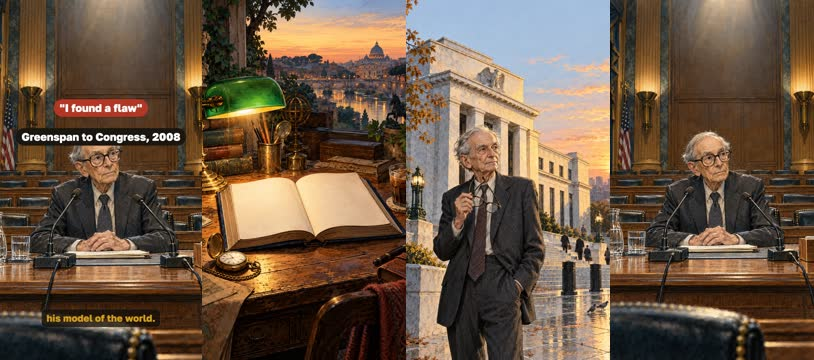
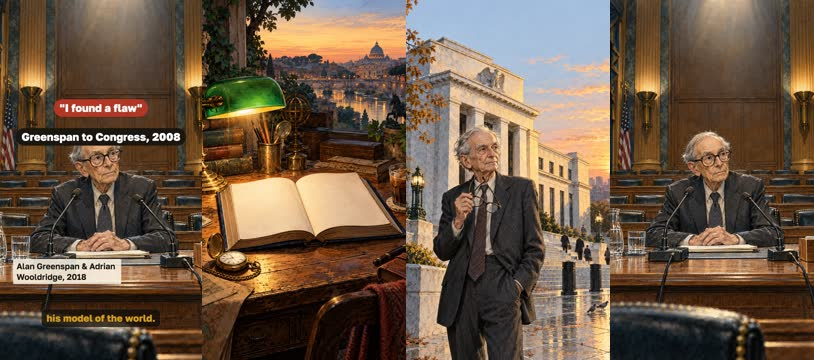
Measure the Russian stress instead of guessing it; answer the open questions
The owner delegated the open decisions. Five of six are now answered in
review.yaml with the reasoning; only the one that needs a human ear is left
open.

Checking the names turned up a real defect. For OmniVoice a stress mark is
an uppercase vowel, but «А́лан» is stressed on the vowel that is already the
name's capitalised initial, so `+Алан` renders as plain «Алан» and reaches
the engine as nothing at all. A phoneme check added here failed take 1
outright: the engine was saying «Ала́н» — the very reading the automatic
lookup had proposed from the noun «ала́н». The given names are therefore
shown rather than spoken: the narration says «Гринспен и историк Вулдридж»
and the frame carries «Алан Гринспен и Адриан Вулдридж, 2018» from
facts.json.

Eight names were confirmed correct by measuring the rendered audio against
the espeak model: Дже́я, Ку́ка, Нью-Йо́рке, Аме́рике, Гри́нспен (twice), Адриа́н.
Those readings are now locked in as checks in the shared lexicon.

«Вулдридж» deliberately gets NO check, and that is the honest result: the
recogniser reads the same audio as `v u l` or `v o l` depending only on
where the slice starts, and the и came out [i] in one take and [ɪ] in
another. A check there would decide by noise and reject good takes. The
word still needs a human ear and is the one open question. Its reading does
depend on the preceding word, so «историк» was added — which is also
factually right about Wooldridge.
[…]

Changed region(s): [[0.0, 0.7028, 0.1536, 0.7944]]

diff --git a/content/videos/who-gets-rich-on-ai/PLAN.ru.md b/content/videos/who-gets-rich-on-ai/PLAN.ru.md
@@ -5,7 +5,7 @@
 | | |
 |---|---|
 | Статус | **сценарий** · ждёт тебя: одобрить сценарий |
-| Длительность | 135.2 с (по озвучке) · 11 сцен |
+| Длительность | 134.9 с (по озвучке) · 11 сцен |
 | Формат | 1080×1920, 30 fps · style `cartoon` |
 | Голос | omnivoice · assets/voice/narrator-ru.wav · 0.9 |
 
@@ -21,13 +21,14 @@
 
 ## Вопросы
 
-- [ ] **owner** · В исходном посте $725 млрд капитальных расходов приписаны Bloomberg. Подтвердить эту атрибуцию не удалось: найденный проверяемый источник — Yahoo Finance (Майлс Адленд, 30.04.2026, по отчётам за I квартал), и ролик ссылается на него, а число названо планом, а не потраченными деньгами. Оставляем так или нужна другая формулировка?
-- [ ] **owner** · Оценка капзатрат за 2026 год менялась в течение года (≈$650 млрд в феврале по Bridgewater, ≈$700 млрд по CNBC, ≈$730 млрд в поздних подсчётах). Взята апрельская с датой на экране. Если к моменту публикации появится свежая — поменять число и пересобрать.
-- [ ] **owner** · Русская и английская версии используют одни и те же картинки (идентичные промпты и файлы), различаются только слова и подписи. Это экономит генерацию и держит версии визуально одинаковыми. Если для англоязычной аудитории нужен другой визуальный ряд — скажите.
-- [ ] **owner** · Для английской версии взят голос бренда по умолчанию — Kokoro am_michael на скорости 1.18 (1.0 давал 151 секунду, это выходило за две минуты). Владелец сравнивал только русские голоса. Нужна ли аудиция английских вариантов (Kokoro af_heart / qwen3-клон) перед релизом?
-- [ ] **owner** · Обе версии вышли на верхней границе заказанного: русская 135 секунд, английская 134. Русскую ускорить нельзя — 0,90 это ваш выбор от 25.10.2026, поэтому она подрезана по тексту. Если нужно ближе к 1:45, скажите, какой блок сократить: историю 1873 года, разбор «производительность ≠ доход» или финал про владение.
+- [ ] **owner** · «Вулдридж» — единственное слово, где машинная проверка бессильна: распознаватель читает один и тот же звук то как «Ву-», то как «Во-» в зависимости от нарезки, поэтому фонемную проверку для него пришлось снять. Русского словарного источника у фамилии нет, ударение взято по английскому WOOL-ridge. Послушайте это слово; если звучит не так — скажите, и я поменяю либо дубль, либо формулировку (имена авторов и так показаны на экране).
+- [x] **owner** · В исходном посте $725 млрд капитальных расходов приписаны Bloomberg. Подтвердить эту атрибуцию не удалось: найденный проверяемый источник — Yahoo Finance (Майлс Адленд, 30.04.2026, по отчётам за I квартал), и ролик ссылается на него, а число названо планом, а не потраченными деньгами. Оставляем так или нужна другая формулировка? — Решено агентом 28.10.2026 по просьбе владельца «полагаюсь на твои решения»: оставляем как есть. Ссылаемся на тот источник, который удалось проверить и процитировать дословно, а не на тот, что был назван в посте. На экране стоит дата и слово «план», так что зритель видит статус числа. Если владелец знает исходную публикацию Bloomberg — пришлите ссылку, поменяю атрибуцию.
+- [x] **owner** · Оценка капзатрат за 2026 год менялась в течение года (≈$650 млрд в феврале по Bridgewater, ≈$700 млрд по CNBC, ≈$730 млрд в поздних подсчётах). Взята апрельская с датой на экране. Если к моменту публикации появится свежая — поменять число и пересобрать. — Решено агентом 28.10.2026: оставляем апрельские $725 млрд. Поздние оценки (≈$730 млрд) отличаются на процент, но держатся на блогах-агрегаторах, а апрельская — на публикации с прямой цитатой. Менять хорошо подтверждённое число на чуть более свежее, но хуже подтверждённое — это ухудшение источника ради видимости актуальности. Дата на экране делает возраст числа видимым. Перепроверить перед публикацией.
+- [x] **owner** · Русская и английская версии используют одни и те же картинки (идентичные промпты и файлы), различаются только слова и подписи. Это экономит генерацию и держит версии визуально одинаковыми. Если для англоязычной аудитории нужен другой визуальный ряд — скажите. — Решено агентом 28.10.2026: оставляем общий набор. В кадрах нет ничего языкового — ни текста, ни культурных отсылок, требующих локализации; это один и тот же аргумент на двух языках. Отдельный набор стоил бы ещё 31 генерации и развёл бы версии визуально без выигрыша.
+- [x] **owner** · Для английской версии взят голос бренда по умолчанию — Kokoro am_michael на скорости 1.18 (1.0 давал 151 секунду, это выходило за две минуты). Владелец сравнивал только русские голоса. Нужна ли аудиция английских вариантов (Kokoro af_heart / qwen3-клон) перед релизом? — Решено агентом 28.10.2026: оставляем am_michael. Это уже записанный выбор бренда в content/brand.yaml. По метрике UTMOS af_heart чуть выше (4.50 против 4.36), но это женский голос — он разошёлся бы по тембру с русским диктором, а переигрывать записанное решение бренда ради метрики, о которой никто не просил, неправильно. Аудицию проведу, если владелец захочет.
+- [x] **owner** · Обе версии вышли на верхней границе заказанного: русская около 135 секунд, английская 134. Русскую ускорить нельзя — 0,90 это ваш выбор от 25.10.2026, поэтому она подрезана по тексту. Если нужно ближе к 1:45, скажите, какой блок сократить: историю 1873 года, разбор «производительность ≠ доход» или финал про владение. — Решено агентом 28.10.2026: оставляем. Заказ был «1,5–2 минуты ±10–15 секунд», обе версии в этот диапазон попадают. Текст уже урезан с 346 до 261 слова; дальше пришлось бы снимать не слова, а несущие куски — либо завязку 1873 года, либо цепочку «производительность не равна доходу», без которой финал про владение повисает.
 
-**Заметки:** Сделано по просьбе владельца 27.10.2026 из его поста «Кто разбогатеет на ИИ? Один неудобный урок из истории капитализма». Формат: 9:16, стиль cartoon, картинки GPT Image через Codex, две версии (ru, en) на общих кадрах. Структура выстроена по приёмам объяснительных роликов: холодный открывающий кадр (1873), загадка «кому достанутся деньги» в первой трети, перецепки на числах, одна мысль на сцену, развязка отвечает на вопрос из хука. Из пересказа убрано слово «революция» (в brand.yaml оно в списке избегаемых) и сравнение с промышленной революцией. Числа перепроверены заново, не взяты из поста на веру: атрибуция Bloomberg не подтвердилась (см. sources.md и вопрос capex-attribution), число ФРС подтвердилось точно (50,9%, II кв. 2026, ряд WFRBST01122). Иллюстративный пример со специалистом помечен на экране как пример, а не замер.
+**Заметки:** Сделано по просьбе владельца 27.10.2026 из его поста «Кто разбогатеет на ИИ? Один неудобный урок из истории капитализма». Формат: 9:16, стиль cartoon, картинки GPT Image через Codex, две версии (ru, en) на общих кадрах. Структура выстроена по приёмам объяснительных роликов: холодный открывающий кадр (1873), загадка «кому достанутся деньги» в первой трети, перецепки на числах, одна мысль на сцену, развязка отвечает на вопрос из хука. Из пересказа убрано слово «революция» (в brand.yaml оно в списке избегаемых) и сравнение с промышленной революцией. Числа перепроверены заново, не взяты из поста на веру: атрибуция Bloomberg не подтвердилась (см. sources.md и вопрос capex-attribution), число ФРС подтвердилось точно (50,9%, II кв. 2026, ряд WFRBST01122). Иллюстративный пример со специалистом помечен на экране как пример, а не замер. 28.10.2026 владелец написал «делай и полагаюсь на твои решения» — закрыты пять вопросов из шести, решения и их причины записаны в answer каждого. Открытым оставлен только wooldridge-ear: он требует человеческого уха, машинная проверка там решает по шуму. Это делегирование решений, а не редакционное одобрение: владелец ролики не смотрел и не слушал, одобрения сценария и выпуска по-прежнему нет.
 
 ## Хук
 
@@ -86,15 +87,15 @@
 
 **Звук:** pop @1.6
 
-### 4. book · 30.9–45.7 с · `illustration`
+### 4. book · 30.9–45.4 с · `illustration`
 
 ![book: кадр в ключевой момент, затем картинки сцены по порядку](preview/plan/ru/book.jpg)
 
 <sub>кадр в ключевой момент, затем картинки сцены по порядку</sub>
 
-**Голос:** Об этом книга «Капитализм в Америке». Её авторы — Алан Гринспен и Адриан Вулдридж. Гринспен девятнадцать лет возглавлял центральный банк США. В 2008 он признал: в его модели мира нашёлся изъян.
+**Голос:** Об этом книга «Капитализм в Америке». Её авторы — Гринспен и историк Вулдридж. Гринспен девятнадцать лет возглавлял центральный банк США. В 2008 он признал: в его модели мира нашёлся изъян.
 
-**На экране:** «1987–2006» · «во главе ФРС США» · ««Я обнаружил изъян»» · «Гринспен, Конгресс, 2008»
+**На экране:** «1987–2006» · «во главе ФРС США» · ««Я обнаружил изъян»» · «Гринспен, Конгресс, 2008» · «Алан Гринспен и Адриан Вулдридж, 2018»
 
 **Картинки:**
 
@@ -102,11 +103,13 @@
 - `@authors` @banker standing thoughtfully in front of a tall marble central-bank building at dawn, holding his glasses in one hand — ok
 - `@flaw` @banker sitting alone at a long witness table in a wood-panelled committee room, microphones in front of him, rows of empty seats behind, harsh overhead light — ok
 
-**Звук:** thud @10.0
+**На слух:** Гринспен — верно (дубль 1) · Вулдридж — верно (дубль 1) · Гринспен — верно (дубль 1)
 
-**Факты:** `facts.greenspan.value.ru` = «1987–2006» · `facts.greenspan.label.ru` = «во главе ФРС США» · `facts.greenspan.quote.ru` = ««Я обнаружил изъян»» · `facts.greenspan.quoteLabel.ru` = «Гринспен, Конгресс, 2008»
+**Звук:** thud @9.6
 
-### 5. capex · 45.7–58.1 с · `illustration`
+**Факты:** `facts.greenspan.value.ru` = «1987–2006» · `facts.greenspan.label.ru` = «во главе ФРС США» · `facts.greenspan.quote.ru` = ««Я обнаружил изъян»» · `facts.greenspan.quoteLabel.ru` = «Гринспен, Конгресс, 2008» · `facts.book.authors.ru` = «Алан Гринспен и Адриан Вулдридж, 2018»
+
+### 5. capex · 45.4–57.8 с · `illustration`
 
 ![capex: кадр в ключевой момент, затем картинки сцены по порядку](preview/plan/ru/capex.jpg)
 
@@ -125,7 +128,7 @@
 
 **Факты:** `facts.capex.value.ru` = «$725 млрд» · `facts.capex.label.ru` = «план капитальных расходов четырёх компаний на 2026 год» · `facts.capex.sourceLine.ru` = «Yahoo Finance, 30.04.2026, по отчётам за I квартал — план, а не факт»
 
-### 6. flip · 58.1–66.9 с · `illustration`
+### 6. flip · 57.8–66.6 с · `illustration`
 
 ![flip: кадр в ключевой момент, затем картинки сцены по порядку](preview/plan/ru/flip.jpg)
 
@@ -140,7 +143,7 @@
 - @viktor sitting at a small kitchen table late in the evening with one laptop, a mug and a houseplant, warm lamplight, through the window behind him the distant glow of the vast data centre — ok
 - `@asym` a towering construction site of steel and concrete seen from below, cranes against a hard blue sky, dozens of hard-hatted workers like ants — ok
 
-### 7. trap · 66.9–82.5 с · `illustration`
+### 7. trap · 66.6–82.2 с · `illustration`
 
 ![trap: кадр в ключевой момент, затем картинки сцены по порядку](preview/plan/ru/trap.jpg)
 
@@ -161,7 +164,7 @@
 
 **Факты:** `facts.specialist.before.ru` = «неделя» · `facts.specialist.after.ru` = «день» · `facts.split.client.ru` = «заказчик» · `facts.split.employer.ru` = «работодатель» · `facts.split.vendor.ru` = «поставщик модели» · `facts.split.worker.ru` = «специалист — ?» · `facts.specialist.label.ru` = «Пример, не замер»
 
-### 8. owners · 82.5–94.7 с · `illustration`
+### 8. owners · 82.2–94.4 с · `illustration`
 
 ![owners: кадр в ключевой момент, затем картинки сцены по порядку](preview/plan/ru/owners.jpg)
 
@@ -180,7 +183,7 @@
 
 **Факты:** `facts.equities.value.ru` = «50,9%» · `facts.equities.label.ru` = «корпоративных акций и паёв — у верхнего 1% домохозяйств США» · `facts.equities.sourceLine.ru` = «ФРС США, распределительные счета, II кв. 2026»
 
-### 9. shift · 94.7–111.2 с · `illustration`
+### 9. shift · 94.4–110.9 с · `illustration`
 
 ![shift: кадр в ключевой момент, затем картинки сцены по порядку](preview/plan/ru/shift.jpg)
 
@@ -199,7 +202,7 @@
 
 **Звук:** pop @8.6, chime @13.1
 
-### 10. caveat · 111.2–120.1 с · `illustration`
+### 10. caveat · 110.9–119.8 с · `illustration`
 
 ![caveat: кадр в ключевой момент, затем картинки сцены по порядку](preview/plan/ru/caveat.jpg)
 
@@ -214,7 +217,7 @@
 - @anna standing hopefully beside a small handmade market stall of neatly arranged goods on an empty street at dawn, not a single customer in sight, shutters still down opposite — ok
 - `@demand` a beautifully built little workshop with its door propped open and a welcome mat, perfect tools laid out inside, an empty path of untrodden grass leading to it — ok
 
-### 11. close · 120.1–135.2 с · `illustration`
+### 11. close · 119.8–134.9 с · `illustration`
 
 ![close: кадр в ключевой момент, затем картинки сцены по порядку](preview/plan/ru/close.jpg)
 

diff --git a/content/videos/who-gets-rich-on-ai/PLAN.en.md b/content/videos/who-gets-rich-on-ai/PLAN.en.md
@@ -21,13 +21,14 @@ Approve: `storygro approve <spec> --step script|storyboard|release` (agents add 
 
 ## Questions
 
-- [ ] **owner** · В исходном посте $725 млрд капитальных расходов приписаны Bloomberg. Подтвердить эту атрибуцию не удалось: найденный проверяемый источник — Yahoo Finance (Майлс Адленд, 30.04.2026, по отчётам за I квартал), и ролик ссылается на него, а число названо планом, а не потраченными деньгами. Оставляем так или нужна другая формулировка?
-- [ ] **owner** · Оценка капзатрат за 2026 год менялась в течение года (≈$650 млрд в феврале по Bridgewater, ≈$700 млрд по CNBC, ≈$730 млрд в поздних подсчётах). Взята апрельская с датой на экране. Если к моменту публикации появится свежая — поменять число и пересобрать.
-- [ ] **owner** · Русская и английская версии используют одни и те же картинки (идентичные промпты и файлы), различаются только слова и подписи. Это экономит генерацию и держит версии визуально одинаковыми. Если для англоязычной аудитории нужен другой визуальный ряд — скажите.
-- [ ] **owner** · Для английской версии взят голос бренда по умолчанию — Kokoro am_michael на скорости 1.18 (1.0 давал 151 секунду, это выходило за две минуты). Владелец сравнивал только русские голоса. Нужна ли аудиция английских вариантов (Kokoro af_heart / qwen3-клон) перед релизом?
-- [ ] **owner** · Обе версии вышли на верхней границе заказанного: русская 135 секунд, английская 134. Русскую ускорить нельзя — 0,90 это ваш выбор от 25.10.2026, поэтому она подрезана по тексту. Если нужно ближе к 1:45, скажите, какой блок сократить: историю 1873 года, разбор «производительность ≠ доход» или финал про владение.
+- [ ] **owner** · «Вулдридж» — единственное слово, где машинная проверка бессильна: распознаватель читает один и тот же звук то как «Ву-», то как «Во-» в зависимости от нарезки, поэтому фонемную проверку для него пришлось снять. Русского словарного источника у фамилии нет, ударение взято по английскому WOOL-ridge. Послушайте это слово; если звучит не так — скажите, и я поменяю либо дубль, либо формулировку (имена авторов и так показаны на экране).
+- [x] **owner** · В исходном посте $725 млрд капитальных расходов приписаны Bloomberg. Подтвердить эту атрибуцию не удалось: найденный проверяемый источник — Yahoo Finance (Майлс Адленд, 30.04.2026, по отчётам за I квартал), и ролик ссылается на него, а число названо планом, а не потраченными деньгами. Оставляем так или нужна другая формулировка? — Решено агентом 28.10.2026 по просьбе владельца «полагаюсь на твои решения»: оставляем как есть. Ссылаемся на тот источник, который удалось проверить и процитировать дословно, а не на тот, что был назван в посте. На экране стоит дата и слово «план», так что зритель видит статус числа. Если владелец знает исходную публикацию Bloomberg — пришлите ссылку, поменяю атрибуцию.
+- [x] **owner** · Оценка капзатрат за 2026 год менялась в течение года (≈$650 млрд в феврале по Bridgewater, ≈$700 млрд по CNBC, ≈$730 млрд в поздних подсчётах). Взята апрельская с датой на экране. Если к моменту публикации появится свежая — поменять число и пересобрать. — Решено агентом 28.10.2026: оставляем апрельские $725 млрд. Поздние оценки (≈$730 млрд) отличаются на процент, но держатся на блогах-агрегаторах, а апрельская — на публикации с прямой цитатой. Менять хорошо подтверждённое число на чуть более свежее, но хуже подтверждённое — это ухудшение источника ради видимости актуальности. Дата на экране делает возраст числа видимым. Перепроверить перед публикацией.
+- [x] **owner** · Русская и английская версии используют одни и те же картинки (идентичные промпты и файлы), различаются только слова и подписи. Это экономит генерацию и держит версии визуально одинаковыми. Если для англоязычной аудитории нужен другой визуальный ряд — скажите. — Решено агентом 28.10.2026: оставляем общий набор. В кадрах нет ничего языкового — ни текста, ни культурных отсылок, требующих локализации; это один и тот же аргумент на двух языках. Отдельный набор стоил бы ещё 31 генерации и развёл бы версии визуально без выигрыша.
+- [x] **owner** · Для английской версии взят голос бренда по умолчанию — Kokoro am_michael на скорости 1.18 (1.0 давал 151 секунду, это выходило за две минуты). Владелец сравнивал только русские голоса. Нужна ли аудиция английских вариантов (Kokoro af_heart / qwen3-клон) перед релизом? — Решено агентом 28.10.2026: оставляем am_michael. Это уже записанный выбор бренда в content/brand.yaml. По метрике UTMOS af_heart чуть выше (4.50 против 4.36), но это женский голос — он разошёлся бы по тембру с русским диктором, а переигрывать записанное решение бренда ради метрики, о которой никто не просил, неправильно. Аудицию проведу, если владелец захочет.
+- [x] **owner** · Обе версии вышли на верхней границе заказанного: русская около 135 секунд, английская 134. Русскую ускорить нельзя — 0,90 это ваш выбор от 25.10.2026, поэтому она подрезана по тексту. Если нужно ближе к 1:45, скажите, какой блок сократить: историю 1873 года, разбор «производительность ≠ доход» или финал про владение. — Решено агентом 28.10.2026: оставляем. Заказ был «1,5–2 минуты ±10–15 секунд», обе версии в этот диапазон попадают. Текст уже урезан с 346 до 261 слова; дальше пришлось бы снимать не слова, а несущие куски — либо завязку 1873 года, либо цепочку «производительность не равна доходу», без которой финал про владение повисает.
 
-**Notes:** Сделано по просьбе владельца 27.10.2026 из его поста «Кто разбогатеет на ИИ? Один неудобный урок из истории капитализма». Формат: 9:16, стиль cartoon, картинки GPT Image через Codex, две версии (ru, en) на общих кадрах. Структура выстроена по приёмам объяснительных роликов: холодный открывающий кадр (1873), загадка «кому достанутся деньги» в первой трети, перецепки на числах, одна мысль на сцену, развязка отвечает на вопрос из хука. Из пересказа убрано слово «революция» (в brand.yaml оно в списке избегаемых) и сравнение с промышленной революцией. Числа перепроверены заново, не взяты из поста на веру: атрибуция Bloomberg не подтвердилась (см. sources.md и вопрос capex-attribution), число ФРС подтвердилось точно (50,9%, II кв. 2026, ряд WFRBST01122). Иллюстративный пример со специалистом помечен на экране как пример, а не замер.
+**Notes:** Сделано по просьбе владельца 27.10.2026 из его поста «Кто разбогатеет на ИИ? Один неудобный урок из истории капитализма». Формат: 9:16, стиль cartoon, картинки GPT Image через Codex, две версии (ru, en) на общих кадрах. Структура выстроена по приёмам объяснительных роликов: холодный открывающий кадр (1873), загадка «кому достанутся деньги» в первой трети, перецепки на числах, одна мысль на сцену, развязка отвечает на вопрос из хука. Из пересказа убрано слово «революция» (в brand.yaml оно в списке избегаемых) и сравнение с промышленной революцией. Числа перепроверены заново, не взяты из поста на веру: атрибуция Bloomberg не подтвердилась (см. sources.md и вопрос capex-attribution), число ФРС подтвердилось точно (50,9%, II кв. 2026, ряд WFRBST01122). Иллюстративный пример со специалистом помечен на экране как пример, а не замер. 28.10.2026 владелец написал «делай и полагаюсь на твои решения» — закрыты пять вопросов из шести, решения и их причины записаны в answer каждого. Открытым оставлен только wooldridge-ear: он требует человеческого уха, машинная проверка там решает по шуму. Это делегирование решений, а не редакционное одобрение: владелец ролики не смотрел и не слушал, одобрения сценария и выпуска по-прежнему нет.
 
 ## Hook
 
@@ -94,7 +95,7 @@ Approve: `storygro approve <spec> --step script|storyboard|release` (agents add 
 
 **Voice:** That is the thread of Capitalism in America, by Alan Greenspan and Adrian Wooldridge. Greenspan ran the Federal Reserve for nineteen years. In 2008 he told Congress: there was a flaw in his model of the world.
 
-**On screen:** «1987–2006» · «chairman of the Federal Reserve» · «"I found a flaw"» · «Greenspan to Congress, 2008»
+**On screen:** «1987–2006» · «chairman of the Federal Reserve» · «"I found a flaw"» · «Greenspan to Congress, 2008» · «Alan Greenspan & Adrian Wooldridge, 2018»
 
 **Pictures:**
 
@@ -104,7 +105,7 @@ Approve: `storygro approve <spec> --step script|storyboard|release` (agents add 
 
 **Sound:** thud @9.2
 
-**Facts:** `facts.greenspan.value.en` = «1987–2006» · `facts.greenspan.label.en` = «chairman of the Federal Reserve» · `facts.greenspan.quote.en` = «"I found a flaw"» · `facts.greenspan.quoteLabel.en` = «Greenspan to Congress, 2008»
+**Facts:** `facts.greenspan.value.en` = «1987–2006» · `facts.greenspan.label.en` = «chairman of the Federal Reserve» · `facts.greenspan.quote.en` = «"I found a flaw"» · `facts.greenspan.quoteLabel.en` = «Greenspan to Congress, 2008» · `facts.book.authors.en` = «Alan Greenspan & Adrian Wooldridge, 2018»
 
 ### 5. capex · 43.6–55.4 s · `illustration`
 

diff --git a/content/videos/who-gets-rich-on-ai/README.md b/content/videos/who-gets-rich-on-ai/README.md
@@ -36,13 +36,39 @@
 ## Голоса и ударения
 
 Русская версия — OmniVoice B на скорости 0,90, выбор владельца от 25.10.2026. Ускорить её, чтобы
-уложиться в хронометраж, нельзя, поэтому текст подрезан с 346 до 262 слов. Эпизод переведён на
-`stress: marks` ради имён: «Дже́я Ку́ка», «Нью-Йо́рке», «А́лан Гри́нспен», «Адриа́н Ву́лдридж». Автоматический
-поиск ударений предложил для «Алан» форму «Ала́на» (от существительного «ала́н») — ошибка, исправлена
-вручную по статье о Гринспене; все имена добавлены в общий словарь
-[`lexicon-ru.yaml`](../../../production/voices/lexicon-ru.yaml) с источниками.
+уложиться в хронометраж, нельзя, поэтому текст подрезан с 346 до 261 слова. Эпизод переведён на
+`stress: marks` ради имён; все они добавлены в общий словарь
+[`lexicon-ru.yaml`](../../../production/voices/lexicon-ru.yaml) с источниками и, где удалось, с
+фонемной проверкой.
 
 Английская версия — Kokoro `am_michael`, скорость 1.18 (на 1.0 выходило 151 секунда).
+
+### Что показала фонемная проверка
+
+Ударения проверены не на слух, а измерением: готовый звук нарезан по таймингам слов и прогнан через
+espeak-модель (`wav2vec2-xlsr-53-espeak-cv-ft`), та же, что использует движок.
+
+| Слово | Измерено | Вывод |
+|---|---|---|
+| Дже́я | `ʒ eɪ` | е полная — верно |
+| Ку́ка | `k uː k` | у долгая — верно |
+| Нью-Йо́рке | `j o r k ɪ` | о полная, е редуцирована — верно |
+| Аме́рике | `m eː ɾ i k ɨ` | е полная — верно |
+| Гри́нспен | `ɡ r iː n s p ɪ n` | конечная е редуцирована — верно |
+
+**«А́лан» оказался сломан, и это не случайность.** Для OmniVoice ударение кодируется заглавной
+гласной, но здесь ударная гласная — и так заглавная первая буква имени, поэтому пометка `+Алан`
+превращается в обычное «Алан» и **до движка не доходит вообще**. Первый же дубль с проверкой дал
+вердикт «wrong»: движок говорил «Ала́н» — ровно ту ошибку, которую до этого предложил автопоиск
+(он спутал имя с существительным «ала́н»). Пометить это имя для OmniVoice нельзя в принципе, поэтому
+имена авторов теперь **показываются, а не произносятся**: в озвучке «Гринспен и историк Вулдридж»,
+на экране — полная строка «Алан Гринспен и Адриан Вулдридж, 2018» из `facts.json`.
+
+Для «Вулдридж» проверку пришлось **снять**: распознаватель читает один и тот же звук как `v u l`
+или `v o l` в зависимости только от границ нарезки, а «и» выходила то `i`, то `ɪ`. Такая проверка
+решала бы по шуму и браковала бы хорошие дубли. Это слово по-прежнему требует живого уха. Попутно
+выяснилось, что чтение зависит от предыдущего слова: после «и» выходило «Во-», после полного слова
+(«историк Вулдридж») — «Ву-»; ради этого в реплику добавлено «историк», что и фактически верно.
 
 ## Картинки
 
@@ -57,11 +83,11 @@
 
 | | Русская | Английская |
 |---|---|---|
-| Длительность | 135,2 с | 134,2 с |
+| Длительность | 134,9 с | 134,2 с |
 | Формат | 1080×1920, 30 fps, H.264/AAC | то же |
 | Громкость | −14,0 LUFS, пик −1,1 dBFS | −14,1 LUFS, пик −0,6 dBFS |
 | QA | 13/13 пройдено, пропусков нет | 13/13 пройдено |
-| Распознавание речи | минимум 92% слов в каждой сцене | минимум 92% |
+| Распознавание речи | минимум 89% слов в каждой сцене | минимум 92% |
 | Голос | OmniVoice B, 0,90 | Kokoro am_michael, 1.18 |
 
 В число проверок входят бренд-правила: ролик подключён к [`brand.yaml`](../../brand.yaml), поэтому QA

diff --git a/content/TRACKER.md b/content/TRACKER.md
@@ -37,7 +37,7 @@
 | [Зачем micro1 покупает рабочие данные компаний](videos/micro1-work-data/README.md) | ru (ru) | business-explainers | просмотр ролика | ждёт тебя: посмотреть и одобрить ролик | — ✅ ⏳ | 86.1 с | pass | 3/5 | — | — |
 | [Презентация из одного промпта — демо SlideCraft](videos/slidecraft-demo/README.md) | ru (ru) | product-demos | раскадровка | ждёт тебя: одобрить раскадровку | — ⚙ ⏳ | 40.6 с | pass | 0/0 | — | — |
 | [Спартак и ЦСКА: секрет дерби](videos/spartak-cska-derby/PLAN.ru.md) | ru (ru) | — | сценарий | ждёт тебя: одобрить сценарий | ⚙ ⚙ ⏳ | 126.1 с | pass | 11/11 | 1 | — |
-| [Кто разбогатеет на ИИ](videos/who-gets-rich-on-ai/PLAN.ru.md) | ru (ru) | — | сценарий | ждёт тебя: одобрить сценарий | ⏳ ⚙ ⏳ | 135.2 с | pass | 8/8 | 5 | — |
-| [Кто разбогатеет на ИИ](videos/who-gets-rich-on-ai/PLAN.en.md) | en (en) | — | сценарий | ждёт тебя: одобрить сценарий | ⏳ ⚙ ⏳ | 134.2 с | pass | 8/8 | 5 | — |
+| [Кто разбогатеет на ИИ](videos/who-gets-rich-on-ai/PLAN.ru.md) | ru (ru) | — | сценарий | ждёт тебя: одобрить сценарий | ⏳ ⚙ ⏳ | 134.9 с | pass | 8/8 | 1 | — |
+| [Кто разбогатеет на ИИ](videos/who-gets-rich-on-ai/PLAN.en.md) | en (en) | — | сценарий | ждёт тебя: одобрить сценарий | ⏳ ⚙ ⏳ | 134.2 с | pass | 8/8 | 1 | — |
 
 ✅ одобрено владельцем · ⚙ техническое одобрение агента · ✏ изменено после одобрения · ⏳ ждёт · — шаг не записан (выпуск старше процесса)
